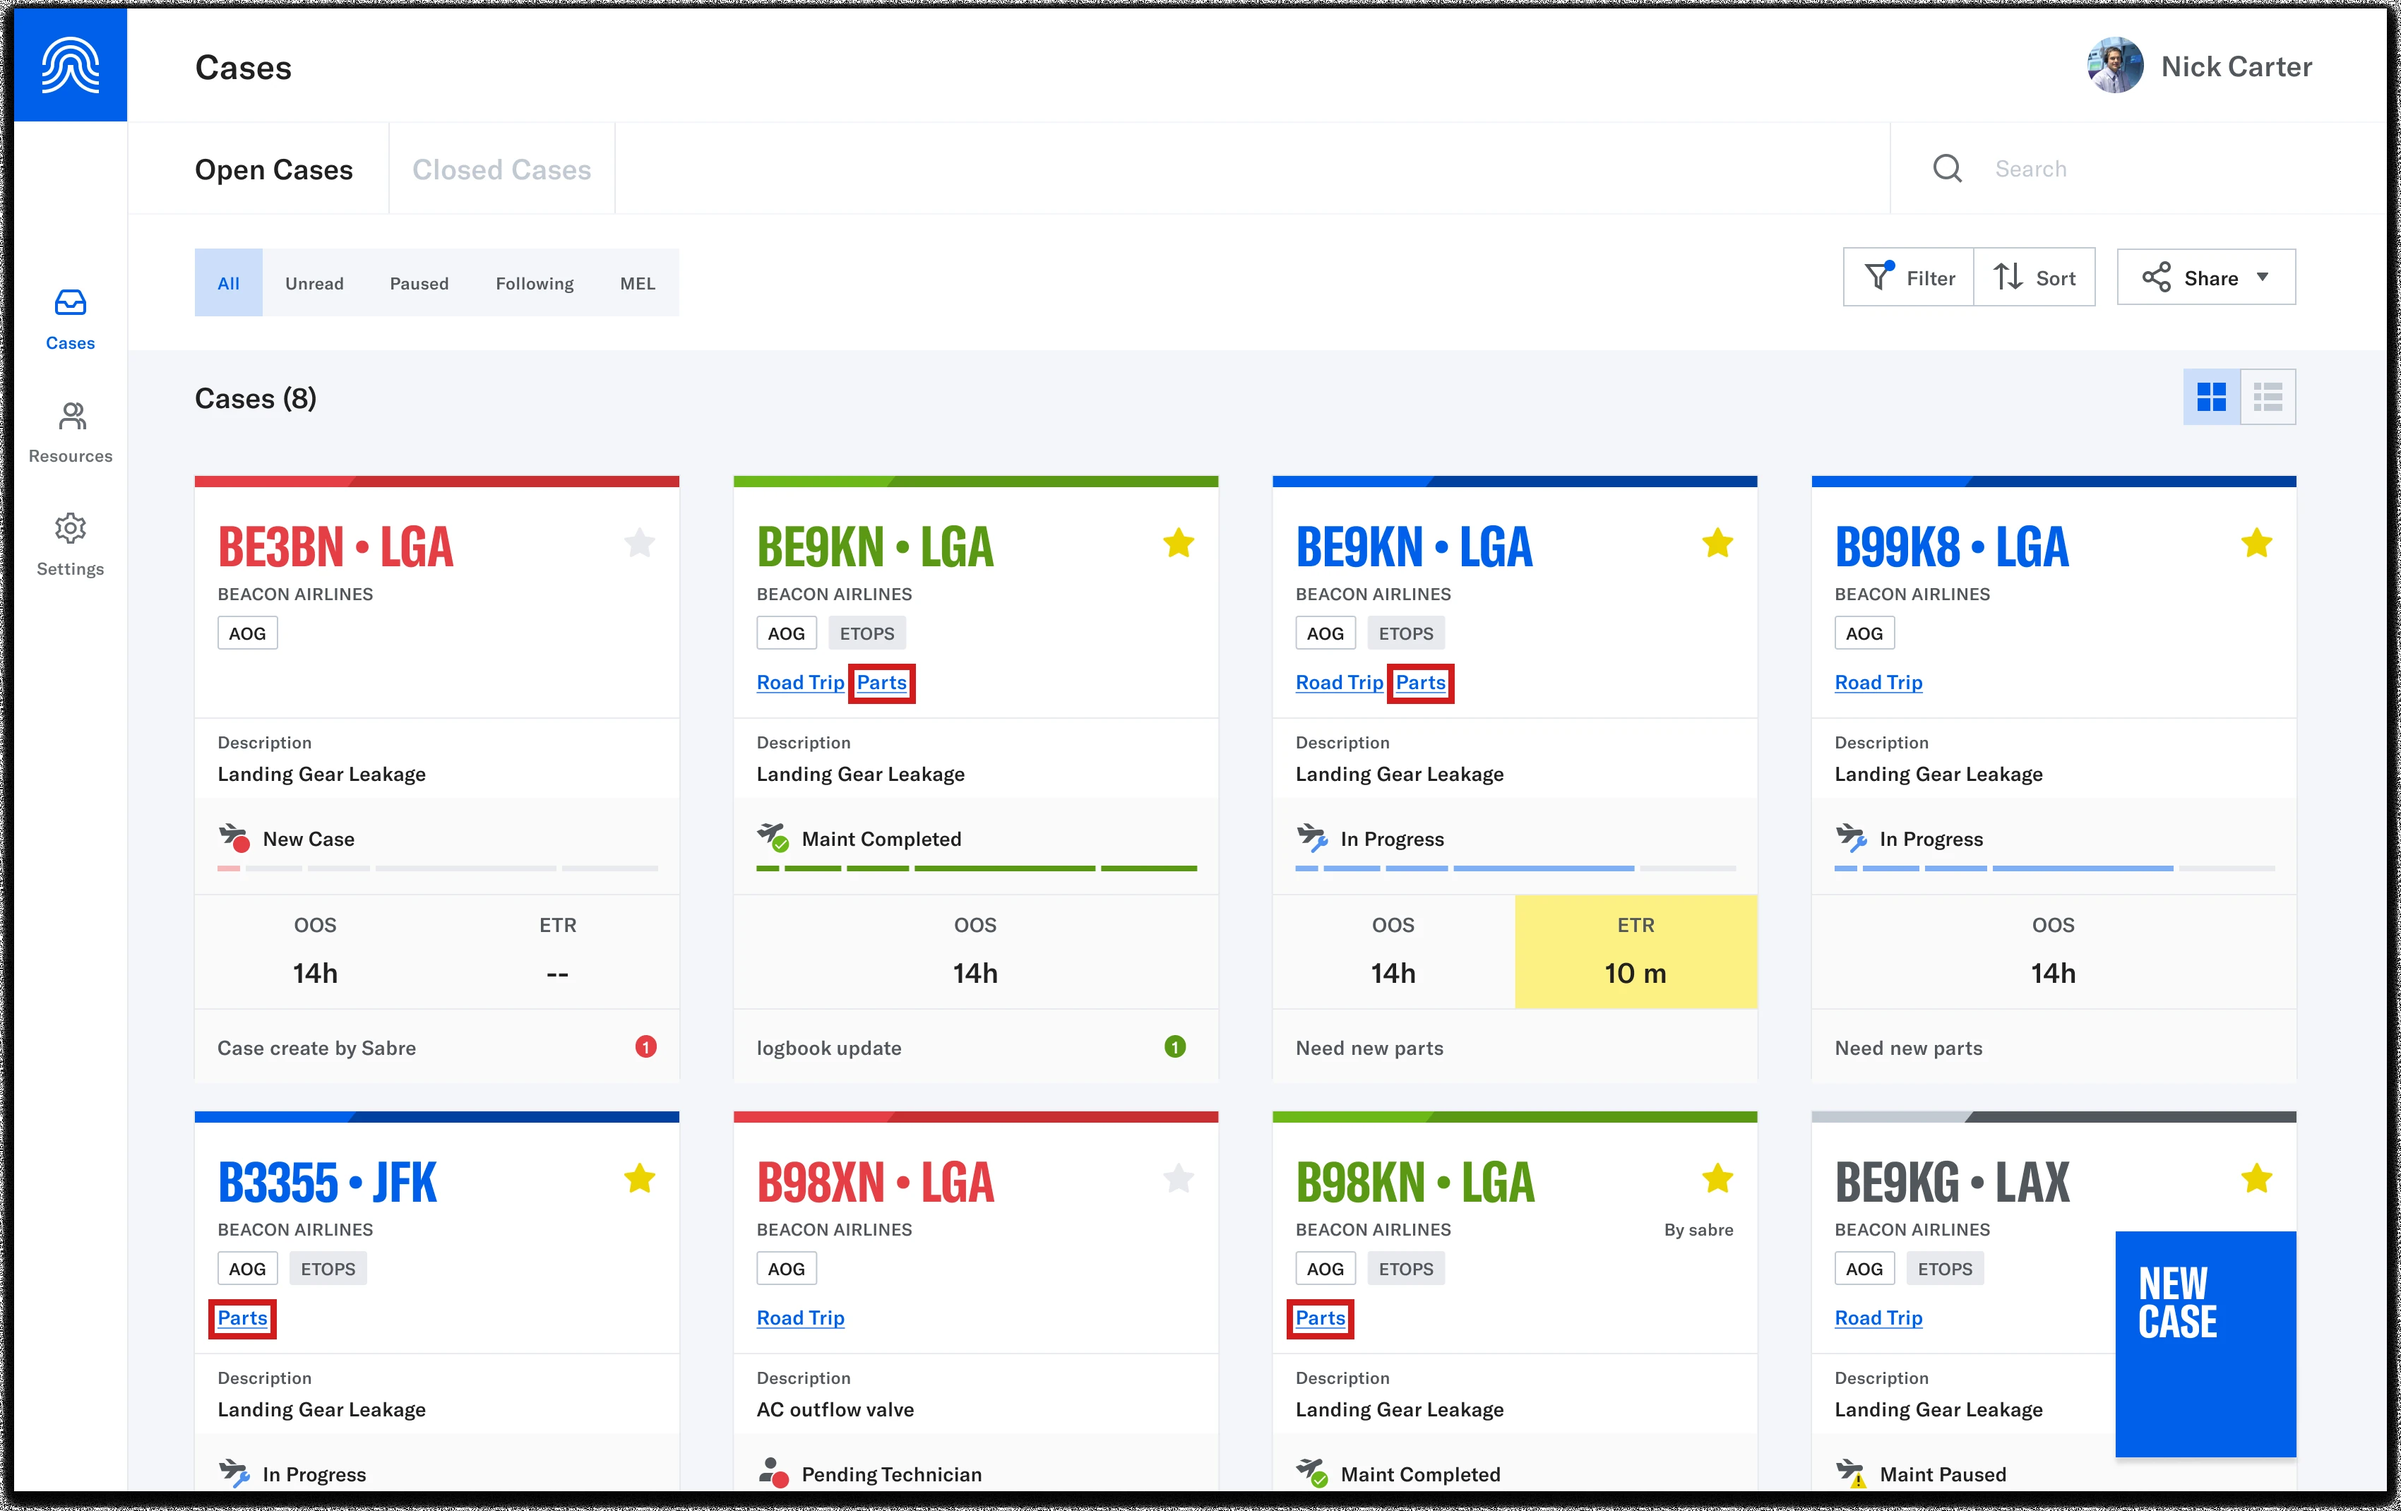
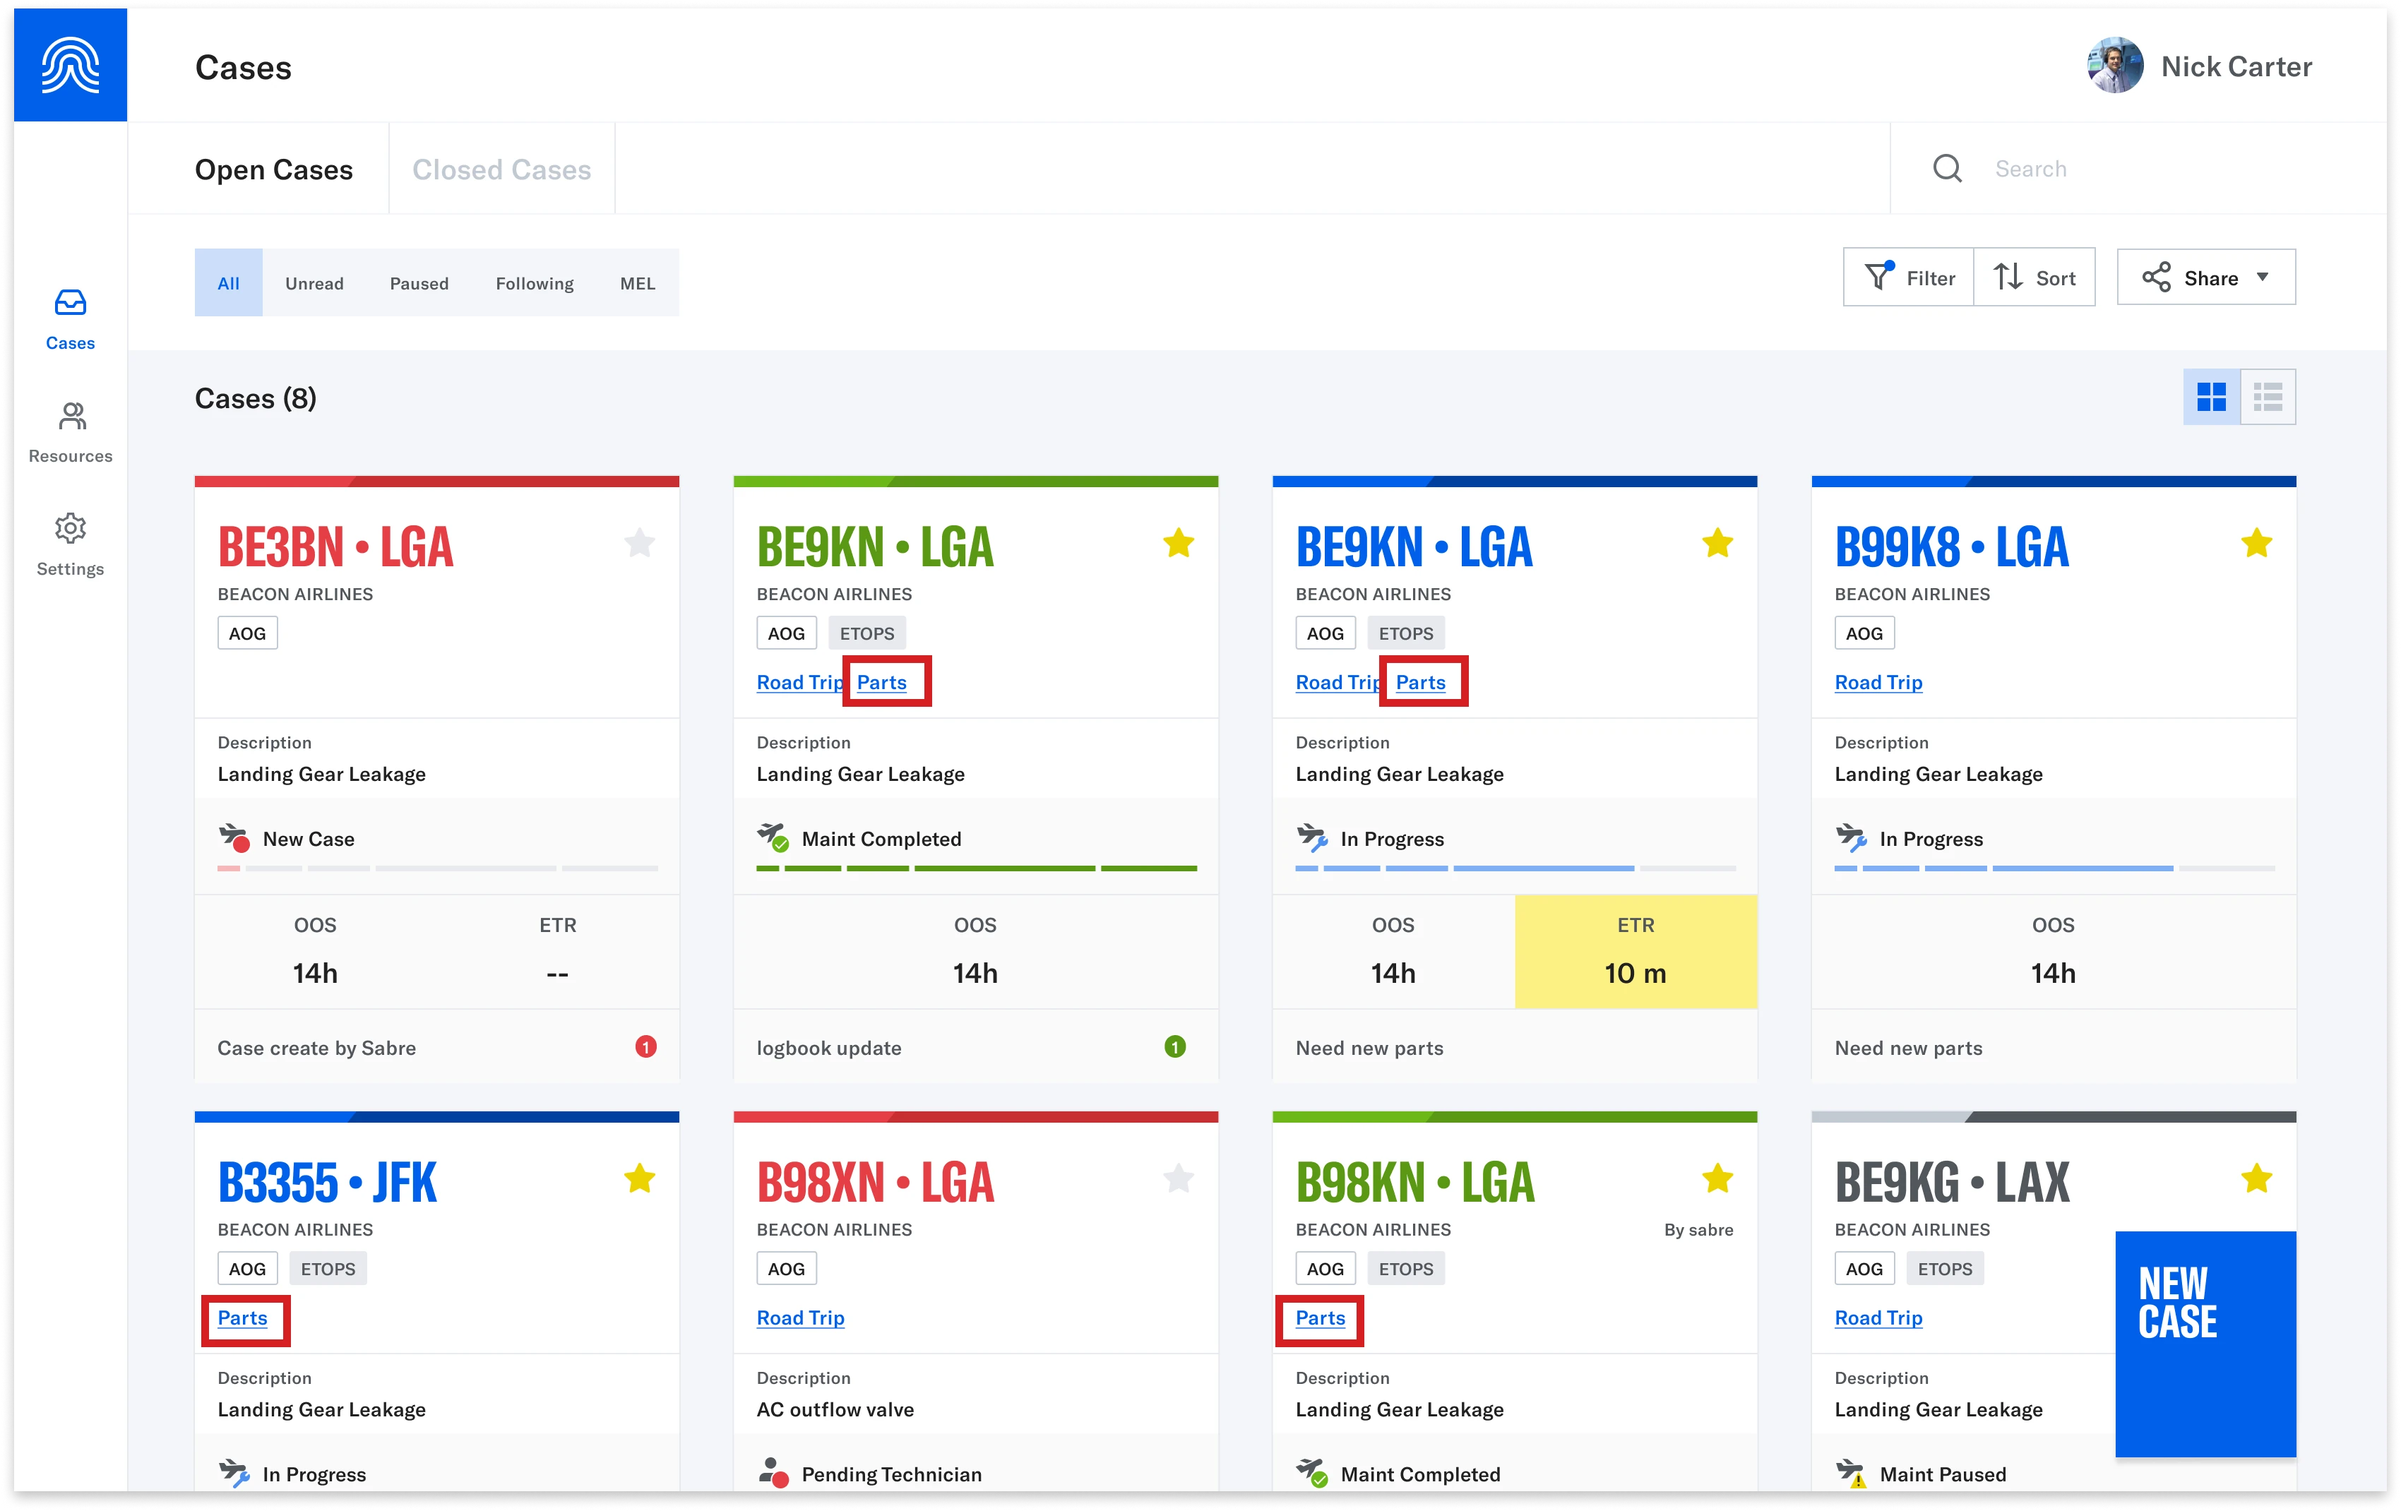
Beacon: restore gray-outs on usability image, fix case-linked border, autoplay What shipped videos
- Usability testing: gray boxes over faces/last names restored (from Figma), sharpened
- Case-linked parts image: transparent shadow kept (no black border), red boxes match Figma
- What shipped videos each autoplay when scrolled to and loop

diff --git a/parts-management.html b/parts-management.html
@@ -188,15 +188,15 @@
           <div class="cs-step">
             <h3 class="cs-h3">Visibility</h3>
             <figure class="cs-figure">
-              <!-- ✏ Visibility plays (muted) once it's on screen; Management waits until Visibility ends, then plays. Made from the Figma GIFs (30s and 33s). -->
-              <video class="cs-video" src="assets/parts-management/results-visibility.mp4" poster="assets/parts-management/results-visibility-poster.webp" width="1680" height="1050" muted playsinline controls preload="metadata" aria-label="Filtering parts requests on desktop"></video>
+              <!-- ✏ Each video plays (muted, looping) when scrolled to and pauses when scrolled away, like the Cube Boards video. Made from the Figma GIFs (30s and 33s). -->
+              <video class="cs-video" src="assets/parts-management/results-visibility.mp4" poster="assets/parts-management/results-visibility-poster.webp" width="1680" height="1050" muted loop playsinline controls preload="metadata" aria-label="Filtering parts requests on desktop"></video>
               <figcaption>DESKTOP - Key user type: MTX planners, Materials team</figcaption>
             </figure>
           </div>
           <div class="cs-step">
             <h3 class="cs-h3">Management</h3>
             <figure class="cs-figure" style="max-width: 575px">
-              <video class="cs-video" src="assets/parts-management/results-management.mp4" poster="assets/parts-management/results-management-poster.webp" width="766" height="1024" muted playsinline controls preload="none" data-autoplay="after" aria-label="Managing parts requests in the live prototype on a tablet"></video>
+              <video class="cs-video" src="assets/parts-management/results-management.mp4" poster="assets/parts-management/results-management-poster.webp" width="766" height="1024" muted loop playsinline controls preload="metadata" aria-label="Managing parts requests in the live prototype on a tablet"></video>
               <figcaption>TABLET - Key user type: Technicians</figcaption>
             </figure>
           </div>
